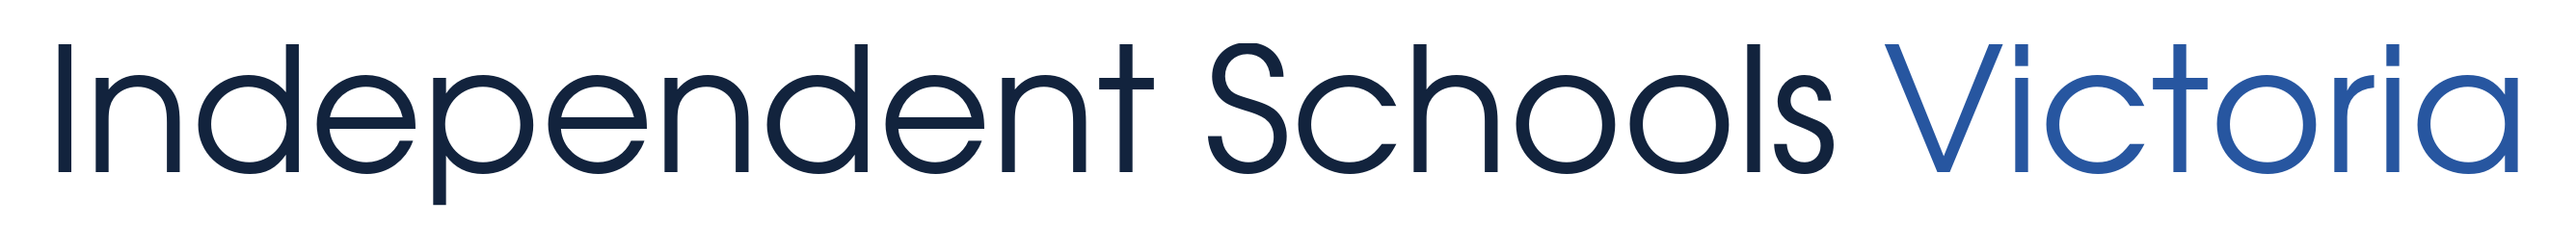
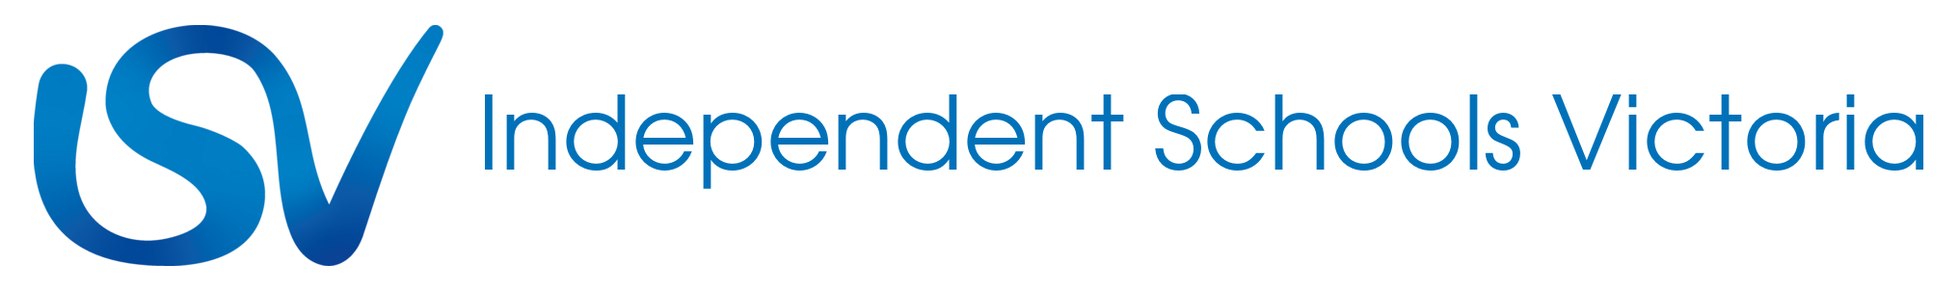
Use ISV's real mark, and stretch the step rail
The rebrand changed the colours and the wordmark type but left the Logo
component rendering text with no mark in it at all. isv-mark.png is now
ISV's own artwork, supplied rather than redrawn, with a paper-white version
for dark grounds.

Logo is rebuilt as a proper lockup and every surface goes through it -
portal header, public header, public footer, sign-in, and the Storybook
brand image via the generated stacked lockup. Replacing the brand is now
replacing a file rather than hunting for markup. When the vector arrives it
drops in at the same path and no code changes.

The wordmark takes the logo's own blue rather than the page ink, and sits
inside the mark's height rather than overrunning it. The mark leads; the
words are the caption. This is the one place --isv-blue appears on screen -
at 5.17:1 it is too light to carry text anywhere else.

The step rail was hard-coded to three columns, so posting a job wrapped its
fourth step onto a second row. It now auto-fits across the full width of
the container, which also suits registration switching between three steps
and four depending on whether the event is a series.

Changed region(s): [[0.0, 0.0618, 0.9926, 0.9266], [0.8996, 0.1853, 0.9306, 0.2471]]

diff --git a/portal/src/app/globals.css b/portal/src/app/globals.css
@@ -1854,6 +1854,62 @@
   }
 
   /* ------------------------------------------------------------------
+     The ISV lockup
+
+     Mark and wordmark on one baseline. The wordmark is set in the product's
+     own sans at the light weight the identity uses, so it sits with the
+     mark rather than being a second, competing typeface.
+     ------------------------------------------------------------------ */
+  /* The wordmark is part of the mark, so it takes the logo's own blue
+     rather than the page's ink. This is the one place --isv-blue is used
+     on screen — everywhere else it is too light to carry text. */
+  .isv-logo {
+    display: inline-flex;
+    align-items: center;
+    gap: 0.6875rem;
+    color: var(--color-brand-mark);
+  }
+  .isv-logo-inverse {
+    color: var(--color-inverse);
+  }
+  .isv-mark {
+    display: block;
+    width: auto;
+    height: 2.125rem;
+    flex: none;
+  }
+  /* Two lines have to sit inside the mark's height, or the type leads and
+     the mark becomes a bullet point next to it. 0.8125rem at 1.15 gives
+     1.87rem against the mark's 2.125rem. */
+  .isv-wordmark {
+    font-family: var(--font-display);
+    font-weight: 300;
+    font-size: 0.8125rem;
+    line-height: 1.15;
+    letter-spacing: -0.002em;
+    white-space: nowrap;
+  }
+  @media (max-width: 40rem) {
+    .isv-mark {
+      height: 1.75rem;
+    }
+    .isv-wordmark {
+      font-size: 0.6875rem;
+    }
+  }
+  /* In the public footer the lockup sits on navy and has room, so it runs
+     larger than it does in a header. */
+  .public-footer .isv-mark {
+    height: 2.75rem;
+  }
+  .public-footer .isv-wordmark {
+    font-size: 1.0625rem;
+  }
+  .public-footer .isv-logo {
+    gap: 0.875rem;
+  }
+
+  /* ------------------------------------------------------------------
      Employment and HR
 
      The only area where the member is working rather than reading, so the
@@ -2246,12 +2302,23 @@
      Circles are a component from a different design system; a rule with
      three labelled segments is the same language as the rest of the page.
      ------------------------------------------------------------------ */
+  /* Auto-fit rather than a fixed three. Registration has three steps or
+     four depending on whether the event is a series, and posting a job has
+     four — a hard-coded count wrapped the last one onto its own row. Runs
+     the full width of the container so the rail reads as a progress bar
+     rather than a row of labels. */
   .step-rail {
     display: grid;
-    grid-template-columns: repeat(3, 1fr);
+    grid-auto-flow: column;
+    grid-auto-columns: 1fr;
     gap: 0.75rem;
     margin-top: 2.25rem;
-    max-width: 34rem;
+  }
+  @media (max-width: 40rem) {
+    .step-rail {
+      grid-auto-flow: row;
+      grid-template-columns: repeat(2, 1fr);
+    }
   }
   .step-rail > li {
     padding-top: 0.625rem;

diff --git a/portal/src/components/features/app-shell.tsx b/portal/src/components/features/app-shell.tsx
@@ -1,5 +1,6 @@
 "use client";
 
+import Image from "next/image";
 import clsx from "clsx";
 import * as Dialog from "@radix-ui/react-dialog";
 import * as DropdownMenu from "@radix-ui/react-dropdown-menu";
@@ -30,21 +31,42 @@ const ROLE_OPTIONS: { role: Role; label: string }[] = [
   { role: "business-manager", label: "Business Manager" },
 ];
 
-export function Logo({ inverse = false }: { inverse?: boolean }) {
+/**
+ * The ISV lockup.
+ *
+ * The mark is ISV's own artwork, not a redraw. It is a PNG rather than an
+ * SVG because that is the file we have; when the vector arrives it drops in
+ * at the same path and nothing here changes.
+ *
+ * One component for every surface — portal header, public header, public
+ * footer, sign-in, Storybook — so replacing the brand is replacing a file
+ * rather than hunting for markup.
+ */
+export function Logo({
+  inverse = false,
+  variant = "lockup",
+}: {
+  inverse?: boolean;
+  /** Mark alone where the name is already on screen or space is tight. */
+  variant?: "lockup" | "mark";
+}) {
   return (
-    // The wrapper has to carry a colour. Left to inherit, "Independent
-    // Schools" took the default ink and disappeared into the navy footer
-    // while "Victoria" stayed legible.
-    <span
-      className={clsx(
-        "font-display text-h3 whitespace-nowrap",
-        inverse ? "text-inverse" : "text-primary",
-      )}
-    >
-      Independent Schools{" "}
-      <span className={inverse ? "text-inverse-soft" : "text-action"}>
-        Victoria
-      </span>
+    <span className={clsx("isv-logo", inverse && "isv-logo-inverse")}>
+      <Image
+        src={inverse ? "/brand/isv-mark-reversed.png" : "/brand/isv-mark.png"}
+        alt={variant === "mark" ? "Independent Schools Victoria" : ""}
+        width={1163}
+        height={684}
+        className="isv-mark"
+        priority
+      />
+      {variant === "lockup" ? (
+        <span className="isv-wordmark">
+          Independent Schools
+          <br />
+          Victoria
+        </span>
+      ) : null}
     </span>
   );
 }

diff --git a/portal/public/brand/README.md b/portal/public/brand/README.md
@@ -1,39 +1,47 @@
 # Brand assets
 
-Wordmark lockups for the ISV prototype.
+## The mark
+
+`isv-mark.png` is **ISV's own artwork**, supplied by ISV and trimmed to its
+own bounds. It is not a redraw. `isv-mark-reversed.png` is the same shape in
+paper white for navy and other dark grounds.
+
+A PNG rather than an SVG because that is the file we have. When the vector
+arrives, replace `isv-mark.png` at this path and re-run the lockup script —
+nothing in the code changes.
+
+## Lockups
 
 | File | Use |
 |---|---|
-| `isv-horizontal.png` | One line. Headers, Storybook chrome, anywhere wide and short. |
-| `isv-stacked.png` | Two lines, left aligned. Narrow columns, footers, square spaces. |
-| `isv-horizontal-reversed.png` | The same, in paper white, for navy and other dark grounds. |
+| `isv-horizontal.png` | Mark plus one line of type. Wide, short spaces. |
+| `isv-stacked.png` | Mark plus two lines. Narrow columns, Storybook, square spaces. |
+| `isv-horizontal-reversed.png` | The same in paper white, for dark grounds. |
 | `isv-stacked-reversed.png` | As above, stacked. |
-| `isv-wordmark.svg` | Vector. Live text, so it can be recoloured or re-set. |
+| `isv-wordmark.svg` | Type only, as live text, for recolouring or re-setting. |
 
-Transparent background, roughly 2500px on the long edge, so they scale down
-cleanly and can sit on any ground.
+Transparent background, roughly 2000–2600px on the long edge.
 
 These live in `public/brand` so the app serves them at `/brand/...`, and
 Storybook is pointed at the same directory. One copy of the brand rather
 than two that drift apart.
 
-## What these are, and are not
+## In the product
 
-**Not ISV's logo file.** These are the wordmark treatment used throughout
-the prototype — ink for "Independent Schools", navy for "Victoria" — set in
-URW Palladio L, a metric clone of Palatino, which is what the product's
-serif stack falls back to after Iowan Old Style. So they match what the
-prototype renders rather than approximating it.
+Everything on screen goes through the `Logo` component in
+`src/components/features/app-shell.tsx` — portal header, public header,
+public footer, sign-in. It composes the mark with the wordmark set in the
+product's own sans at the identity's light weight, so the type in the
+lockup and the type on the page are the same face.
 
-Before the pitch, get ISV's real logo from whoever holds the brand assets
-and replace these. Nothing in the code needs to change: the Storybook theme
-points at `isv-stacked.png`, so a like-for-like file swap is enough.
+`variant="mark"` renders the mark alone, for anywhere the name is already
+on screen or the space is tight.
 
-## Regenerating
+## Regenerating the lockups
 
 ```
 bash scripts/build-wordmark.sh
 ```
 
-Needs ImageMagick and the URW fonts. Colours come from the same token values
-the product uses, so they cannot drift from the palette.
+Composes `isv-mark.png` with the wordmark. Needs ImageMagick and the URW
+fonts. Colours come from the same token values the product uses.
